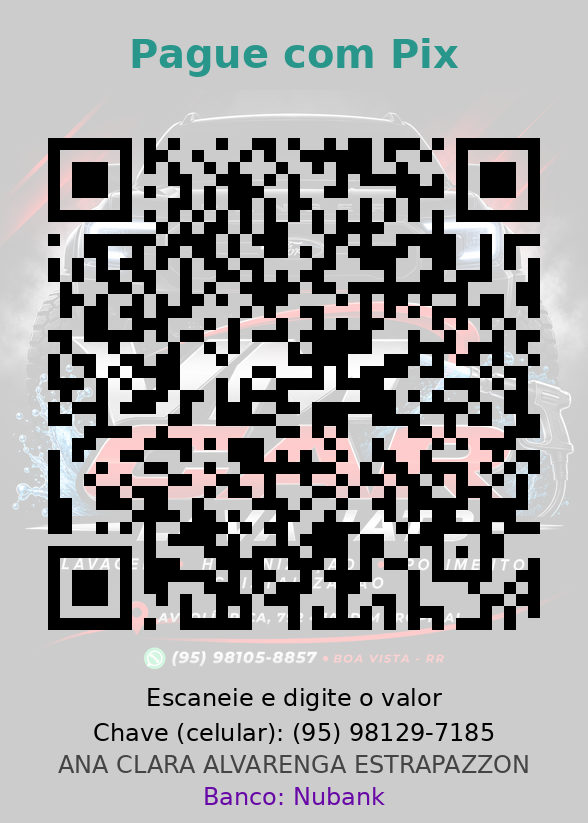
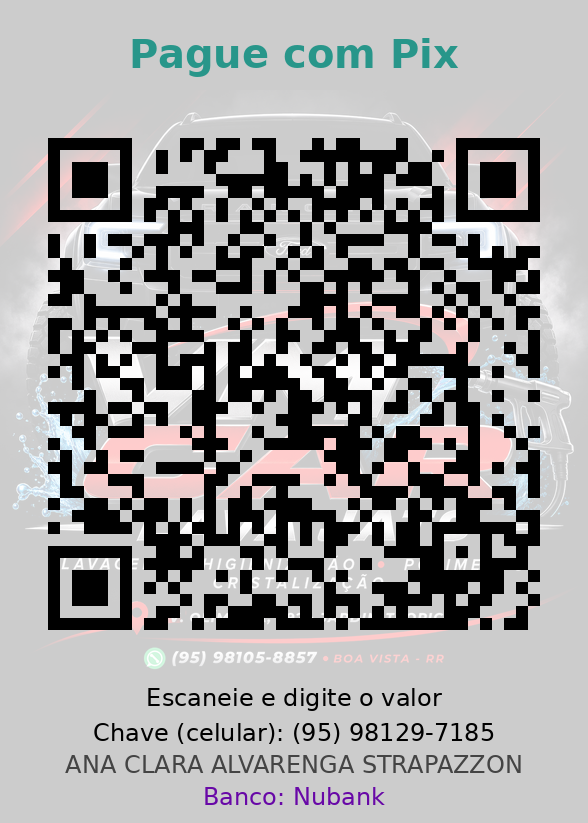
Corrige sobrenome para Strapazzon no QR Code Pix
Claude-Session: https://claude.ai/code/session_01UrdWWyTJKrtDsuV1kNKtcN

Changed region(s): [[0.0612, 0.1519, 0.9184, 0.7898], [0.0918, 0.9113, 0.9184, 0.9417]]

diff --git a/gerar_pix.py b/gerar_pix.py
@@ -14,8 +14,8 @@ from PIL import Image, ImageChops, ImageDraw, ImageFont
 
 # ---- Configuração ----------------------------------------------------------
 CHAVE_PIX = "+5595981297185"   # chave do tipo telefone: (95) 98129-7185
-NOME = "ANA CLARA ALVARENGA ESTRAPAZZON"  # nome completo, aparece na imagem
-NOME_PIX = "ANA CLARA A ESTRAPAZZON"      # vai dentro do QR Code (máx. 25 caracteres)
+NOME = "ANA CLARA ALVARENGA STRAPAZZON"  # nome completo, aparece na imagem
+NOME_PIX = "ANA CLARA A STRAPAZZON"      # vai dentro do QR Code (máx. 25 caracteres)
 CIDADE = "BOA VISTA"           # até 15 caracteres
 BANCO = "Nubank"              # só aparece na imagem
 LOGO = "logo_vmcar.png"       # logomarca clarinha no fundo
